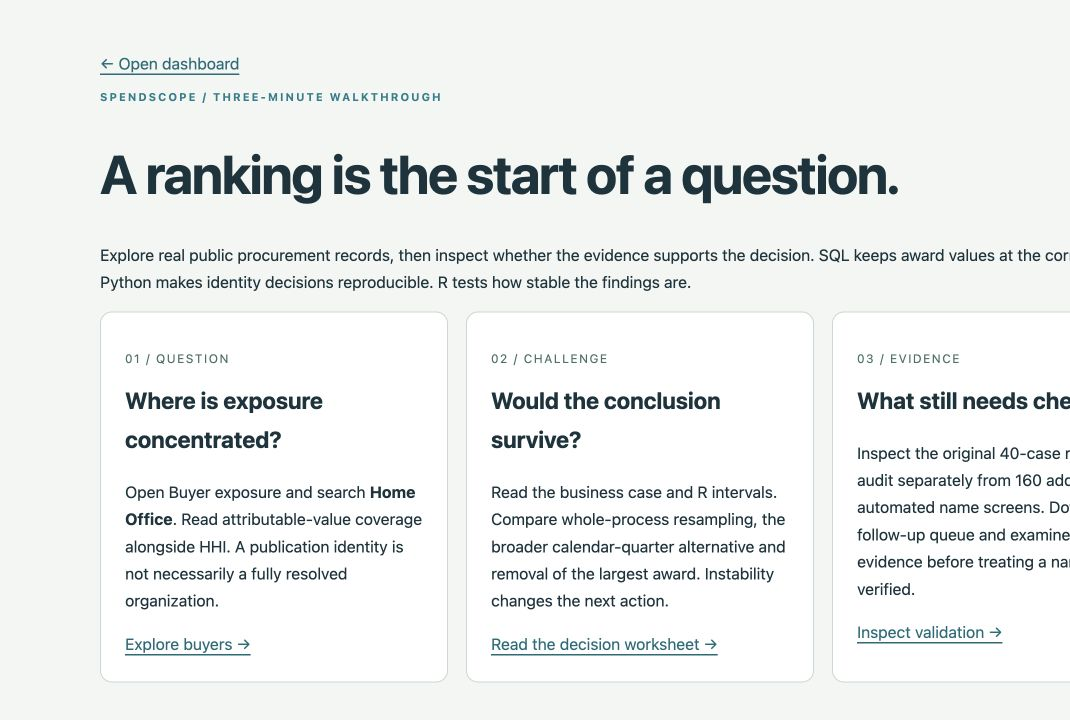
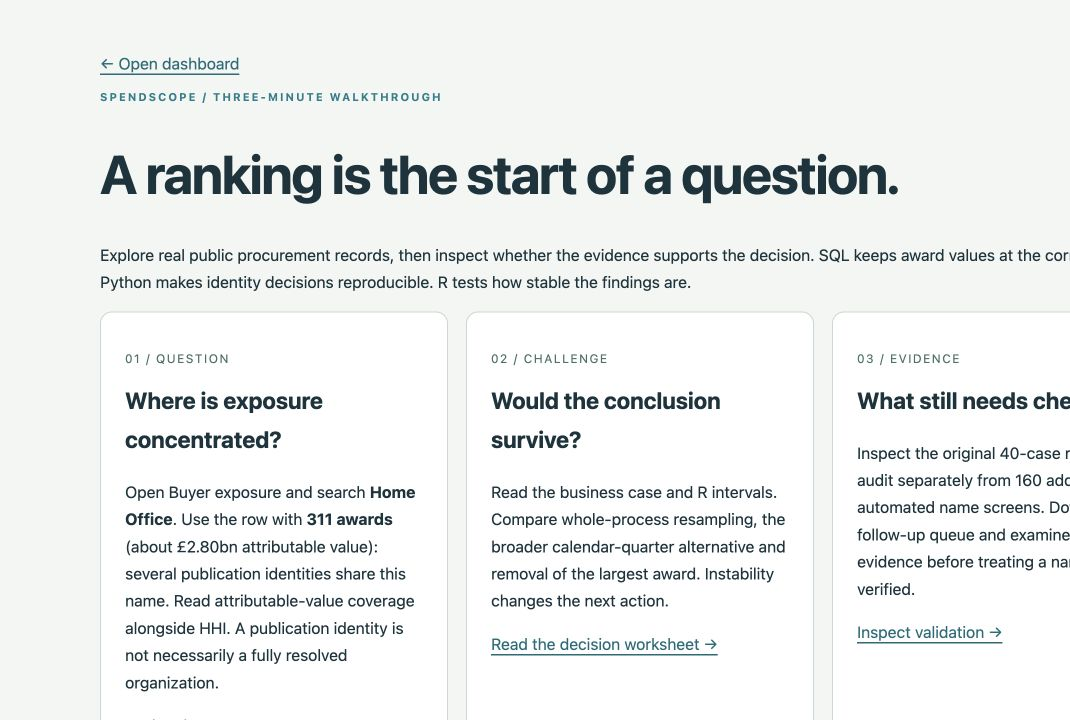
Tie decision evidence to the exact buyer publication identity

Changed region(s): [[0.0925, 0.7028, 0.4009, 0.9778]]

diff --git a/docs/case-studies.html b/docs/case-studies.html
@@ -1,2 +1,2 @@
-<!doctype html><html lang="en"><head><meta charset="utf-8"><meta name="viewport" content="width=device-width,initial-scale=1"><title>SpendScope | Business case studies</title><link rel="stylesheet" href="research.css"></head><body><main><a href="index.html">← Dashboard</a><p class="eyebrow">BUSINESS CASE STUDIES / EXECUTED RESULTS</p><h1>SpendScope: evidence before supplier prioritization</h1><h2>Decision</h2><p>Use the dashboard to prioritize source-record and identity review. Do not interpret award commitments as payments, rankings as verified supplier performance, or hypothetical sensitivity scenarios as savings.</p><h2>Case 1 — A source instruction had become a supplier</h2><p>The upgraded rules identify 193 placeholder links and 1,093 malformed registration links across the normalized source. Examples include attachment-list instructions and generic labels such as “Various.” They remain in headline award totals but cannot carry supplier shares.</p><p>Using the same pinned archives, combined identity/evidence improvements changed attributable value from £325.90bn (32.9% of eligible value) to £236.35bn (23.9%). The difference is a change in analytical attribution, not reduced procurement spend or measured savings. Exact reviewed approvals also restore selected legitimate names, so the difference must not be attributed to one exclusion rule alone.</p><p>The versioned evidence review contains 31 targeted registration/name cases: 11 approvals, 2 rejections and 18 unresolved cases. Five Companies House records anchor the accepted exact names. This is not a random test set or an independent accuracy audit.</p><h2>Random validation — a frozen registry sample</h2><p>A deterministic sample of 40 from 11,517 previously unreviewed GB-COH identities produced 36 compatible registry-name records, 2 name conflicts and 2 unobserved records. Confirmed agreement is 90.0%, with a 95% Wilson interval of 76.9%–96.0%. Missing-evidence bounds are 90.0%–95.0%. The sample was frozen before its registry observations; subsequent conflict holdbacks are documented remediation, not a claim of independently measured post-remediation accuracy.</p><p>This is registry-name consistency in a restricted registration-evidence frame, not precision/recall of all supplier matching. Name-only identities, source assignment errors despite a matching legal name, and independent professional validation remain outside this result.</p><h2>Case 2 — A framework ceiling is not a payment</h2><p>The largest recorded award is £150.00bn: EEM0056 Property Improvements and Decarbonisation Works Framework. The linked notice displays the same amount and 19 suppliers, and explains a potential framework covering multiple users, lots and years. Agreement confirms a source representation, not distinct expenditure or that the ceiling will be used. The award stays in headline totals once and is not attributed to each of its suppliers.</p><p><a href="https://www.contractsfinder.service.gov.uk/Notice/22498071-7872-45a0-ae26-4077553233f5">Original award notice ↗</a></p><p>Twenty large award records were selected for page review; 20 linked pages were observed and 11 records were held back from attribution for unresolved stage/context/cardinality issues or attachment-list placeholders. Original amounts are never silently rewritten. Live notice pages and pinned compiled snapshots can represent different points in a procurement&#x27;s history.</p><h2>Case 3 — Related awards change the stability assessment</h2><p>For the leading supported buyer identity by attributable value, Home Office, 311 awards belong to 266 procurement processes. R independently reproduces HHI 1,113. The process-clustered percentile interval is 622–3,313; the independent-award alternative is 626–2,521. These intervals are descriptive, with 300 draws under each sampling assumption.</p><p>Removing the largest award gives HHI 790; buyer-specific 99th-percentile capping gives 541. Registration evidence covers 0.0% of this buyer identity&#x27;s attributable value. Neither the ranking nor interval is a guarantee of operational supplier dependency. Review identity confidence and individual commitments before making a procurement decision.</p><h2>Decision worksheet — should this buyer enter a supplier-risk review?</h2><p>Question: does Home Office&#x27;s observed portfolio justify immediately changing supplier strategy? Recommendation: prioritize verification, not a supplier change. The process interval spans 622–3,313; the largest-award sensitivity changes the point estimate from 1,113 to 790. That instability and 0.0% registration-evidence coverage make an operational dependency claim premature.</p><p>Analyst handoff: download buyer metrics and buyer sensitivity; locate the buyer in the Source explorer; inspect its largest commitments and original notices. Ask the stakeholder for supplier legal IDs, framework/call-off relationships, actual payments, service criticality and substitution lead times. Reconcile these to the observed publication identity before escalating any supplier-risk recommendation.</p><p>Acceptance gate: do not recommend a supplier intervention until identity gaps and overlapping commitments are resolved, payment records reconcile to the intended period, and a procurement owner confirms service criticality. Record unresolved discrepancies. This is a proposed decision workflow, not a stakeholder-endorsed action or measured savings.</p><h2>Expanded evidence collection — names are a screening signal</h2><p>The frozen hash ordering now extends to 200 identities: the original 40-case audit plus 160 additional automated registry observations. The latter yield 134 current/former-name agreements, 21 cases requiring review and 5 unavailable pages. These are not additional human-reviewed accuracy labels. A versioned follow-up queue preserves nonmatches and unavailable evidence; no attribution rule changes automatically.</p><h2>Dependence beyond one process</h2><p>The source provides 249 related-process declarations but only 0 usable in-universe OCID links. No graph edges are invented from missing identifiers. R therefore also publishes buyer-clustered category medians and calendar-quarter buyer-HHI sensitivity, preserving dependence under broader alternative assumptions. These do not establish true framework/call-off relationships.</p><h2>Recommended next action</h2><p>Begin with source evidence and identity gaps, then request actual purchasing/payment records from a real stakeholder. Conduct an independent labeled supplier review before reporting population matching accuracy. Process clustering still misses unknown links across distinct OCIDs and missing reporting. No external stakeholder validation or measured organizational impact is claimed.</p><p>Evidence: reports/quality.json, buyer_evidence.csv, buyer_sensitivity.csv, comparison_thresholds.csv, identity_decisions.csv, notice_checks.json and data/sources.json. Baseline comparison: v0.1.0, commit ee9dfed.
-</p><p><a href="research.html">R research note ↗</a> · <a href="reports/notice_checks.json">Evidence register ↓</a></p></main></body></html>
+<!doctype html><html lang="en"><head><meta charset="utf-8"><meta name="viewport" content="width=device-width,initial-scale=1"><title>SpendScope | Business case studies</title><link rel="stylesheet" href="research.css"></head><body><main><a href="index.html">← Dashboard</a><p class="eyebrow">BUSINESS CASE STUDIES / EXECUTED RESULTS</p><h1>SpendScope: evidence before supplier prioritization</h1><h2>Decision</h2><p>Use the dashboard to prioritize source-record and identity review. Do not interpret award commitments as payments, rankings as verified supplier performance, or hypothetical sensitivity scenarios as savings.</p><h2>Case 1 — A source instruction had become a supplier</h2><p>The upgraded rules identify 193 placeholder links and 1,093 malformed registration links across the normalized source. Examples include attachment-list instructions and generic labels such as “Various.” They remain in headline award totals but cannot carry supplier shares.</p><p>Using the same pinned archives, combined identity/evidence improvements changed attributable value from £325.90bn (32.9% of eligible value) to £236.35bn (23.9%). The difference is a change in analytical attribution, not reduced procurement spend or measured savings. Exact reviewed approvals also restore selected legitimate names, so the difference must not be attributed to one exclusion rule alone.</p><p>The versioned evidence review contains 31 targeted registration/name cases: 11 approvals, 2 rejections and 18 unresolved cases. Five Companies House records anchor the accepted exact names. This is not a random test set or an independent accuracy audit.</p><h2>Random validation — a frozen registry sample</h2><p>A deterministic sample of 40 from 11,517 previously unreviewed GB-COH identities produced 36 compatible registry-name records, 2 name conflicts and 2 unobserved records. Confirmed agreement is 90.0%, with a 95% Wilson interval of 76.9%–96.0%. Missing-evidence bounds are 90.0%–95.0%. The sample was frozen before its registry observations; subsequent conflict holdbacks are documented remediation, not a claim of independently measured post-remediation accuracy.</p><p>This is registry-name consistency in a restricted registration-evidence frame, not precision/recall of all supplier matching. Name-only identities, source assignment errors despite a matching legal name, and independent professional validation remain outside this result.</p><h2>Case 2 — A framework ceiling is not a payment</h2><p>The largest recorded award is £150.00bn: EEM0056 Property Improvements and Decarbonisation Works Framework. The linked notice displays the same amount and 19 suppliers, and explains a potential framework covering multiple users, lots and years. Agreement confirms a source representation, not distinct expenditure or that the ceiling will be used. The award stays in headline totals once and is not attributed to each of its suppliers.</p><p><a href="https://www.contractsfinder.service.gov.uk/Notice/22498071-7872-45a0-ae26-4077553233f5">Original award notice ↗</a></p><p>Twenty large award records were selected for page review; 20 linked pages were observed and 11 records were held back from attribution for unresolved stage/context/cardinality issues or attachment-list placeholders. Original amounts are never silently rewritten. Live notice pages and pinned compiled snapshots can represent different points in a procurement&#x27;s history.</p><h2>Case 3 — Related awards change the stability assessment</h2><p>For the leading supported buyer identity by attributable value, Home Office, 311 awards belong to 266 procurement processes. R independently reproduces HHI 1,113. The process-clustered percentile interval is 622–3,313; the independent-award alternative is 626–2,521. These intervals are descriptive, with 300 draws under each sampling assumption.</p><p>Removing the largest award gives HHI 790; buyer-specific 99th-percentile capping gives 541. Registration evidence covers 0.0% of this buyer identity&#x27;s attributable value. Neither the ranking nor interval is a guarantee of operational supplier dependency. Review identity confidence and individual commitments before making a procurement decision.</p><h2>Decision worksheet — should this buyer enter a supplier-risk review?</h2><p>Question: does Home Office&#x27;s observed portfolio justify immediately changing supplier strategy? Recommendation: prioritize verification, not a supplier change. The process interval spans 622–3,313; the largest-award sensitivity changes the point estimate from 1,113 to 790. That instability and 0.0% registration-evidence coverage make an operational dependency claim premature.</p><p>Analyst handoff: download buyer metrics and buyer sensitivity. Match buyer_key b49f4c311ff916ace705f91d to the case&#x27;s 20-largest-attributable-commitments download; buyer names alone are not unique. This is a selected evidence queue, not the complete 311-award portfolio. Inspect its original notice links and identity basis. Ask the stakeholder for supplier legal IDs, framework/call-off relationships, actual payments, service criticality and substitution lead times. Reconcile these to the observed publication identity before escalating any supplier-risk recommendation.</p><p>Acceptance gate: do not recommend a supplier intervention until identity gaps and overlapping commitments are resolved, payment records reconcile to the intended period, and a procurement owner confirms service criticality. Record unresolved discrepancies. This is a proposed decision workflow, not a stakeholder-endorsed action or measured savings.</p><h2>Expanded evidence collection — names are a screening signal</h2><p>The frozen hash ordering now extends to 200 identities: the original 40-case audit plus 160 additional automated registry observations. The latter yield 134 current/former-name agreements, 21 cases requiring review and 5 unavailable pages. These are not additional human-reviewed accuracy labels. A versioned follow-up queue preserves nonmatches and unavailable evidence; no attribution rule changes automatically.</p><h2>Dependence beyond one process</h2><p>The source provides 249 related-process declarations but only 0 usable in-universe OCID links. No graph edges are invented from missing identifiers. R therefore also publishes buyer-clustered category medians and calendar-quarter buyer-HHI sensitivity, preserving dependence under broader alternative assumptions. These do not establish true framework/call-off relationships.</p><h2>Recommended next action</h2><p>Begin with source evidence and identity gaps, then request actual purchasing/payment records from a real stakeholder. Conduct an independent labeled supplier review before reporting population matching accuracy. Process clustering still misses unknown links across distinct OCIDs and missing reporting. No external stakeholder validation or measured organizational impact is claimed.</p><p>Evidence: reports/quality.json, buyer_evidence.csv, buyer_sensitivity.csv, comparison_thresholds.csv, identity_decisions.csv, notice_checks.json and data/sources.json. Baseline comparison: v0.1.0, commit ee9dfed.
+</p><p><a href="reports/decision_case_awards.csv">Case evidence: 20 largest attributable commitments ↓</a></p><p><a href="research.html">R research note ↗</a> · <a href="reports/notice_checks.json">Evidence register ↓</a></p></main></body></html>

diff --git a/docs/walkthrough.html b/docs/walkthrough.html
@@ -2,10 +2,11 @@
 <html lang="en">
 <head><meta charset="utf-8"><meta name="viewport" content="width=device-width,initial-scale=1"><meta name="description" content="A three-minute evidence-first walkthrough of SpendScope's SQL, Python and R procurement analysis."><title>SpendScope | Start here</title><link rel="stylesheet" href="research.css"><style>.steps{display:grid;grid-template-columns:repeat(3,minmax(0,1fr));gap:18px}.step{background:white;border:1px solid #c9d7d2;padding:24px;border-radius:12px}.step h2{margin-top:0;font-size:23px}.tag{font-size:12px;letter-spacing:1.5px;color:#467365;text-transform:uppercase}.flow{display:flex;flex-wrap:wrap;gap:12px;padding:0;list-style:none}.flow li{background:#17343d;color:#fff;border-radius:8px;padding:14px;flex:1;min-width:130px}.flow small{display:block;color:#d1e8df}a:focus-visible,summary:focus-visible{outline:3px solid #b44e26;outline-offset:4px}@media(max-width:750px){.steps{grid-template-columns:1fr}}</style></head>
 <body><main><a href="index.html">← Open dashboard</a><p class="eyebrow">SPENDSCOPE / THREE-MINUTE WALKTHROUGH</p><h1>A ranking is the start of a question.</h1><p>Explore real public procurement records, then inspect whether the evidence supports the decision. SQL keeps award values at the correct grain. Python makes identity decisions reproducible. R tests how stable the findings are.</p>
-<div class="steps"><section class="step"><p class="tag">01 / Question</p><h2>Where is exposure concentrated?</h2><p>Open Buyer exposure and search <strong>Home Office</strong>. Read attributable-value coverage alongside HHI. A publication identity is not necessarily a fully resolved organization.</p><a href="index.html#buyers">Explore buyers →</a></section>
+<div class="steps"><section class="step"><p class="tag">01 / Question</p><h2>Where is exposure concentrated?</h2><p>Open Buyer exposure and search <strong>Home Office</strong>. Use the row with <strong>311 awards</strong> (about £2.80bn attributable value): several publication identities share this name. Read attributable-value coverage alongside HHI. A publication identity is not necessarily a fully resolved organization.</p><a href="index.html#buyers">Explore buyers →</a></section>
 <section class="step"><p class="tag">02 / Challenge</p><h2>Would the conclusion survive?</h2><p>Read the business case and R intervals. Compare whole-process resampling, the broader calendar-quarter alternative and removal of the largest award. Instability changes the next action.</p><a href="case-studies.html">Read the decision worksheet →</a></section>
 <section class="step"><p class="tag">03 / Evidence</p><h2>What still needs checking?</h2><p>Inspect the original 40-case registry audit separately from 160 additional automated name screens. Download the follow-up queue and examine original evidence before treating a name as verified.</p><a href="index.html#validation">Inspect validation →</a></section></div>
 <h2>How the system works</h2><ol class="flow" aria-label="Data pipeline"><li>Public archives<small>Pinned originals + SHA-256</small></li><li>Python normalization<small>Award grain + identity evidence</small></li><li>DuckDB / SQL<small>Conservation + coverage gates</small></li><li>R analysis<small>Dependence + sensitivity</small></li><li>Verified publication<small>Tests → exact commit → Pages</small></li></ol>
+<p><a href="reports/decision_case_awards.csv">Download the case’s 20 largest attributable commitments →</a> · Exact publication identity; original notice links; not payments.</p>
 <h2>The decision this supports</h2><p><strong>Prioritize investigation before changing suppliers.</strong> The Home Office case demonstrates why a concentration point estimate alone is insufficient. A procurement owner still needs legal identities, call-off relationships, actual payments, service criticality and substitution lead times. No stakeholder endorsement or realized savings is claimed.</p>
 <h2>Inspect the engineering</h2><p><a href="https://github.com/MaxListon/spendscope-procurement-analytics">Source repository</a> · <a href="https://github.com/MaxListon/spendscope-procurement-analytics/actions/workflows/checks.yml">Latest build checks</a> · <a href="reports/build_manifest.json">Artifact fingerprints</a> · <a href="research.html">Executed R analysis</a></p>
 <h2>Data freshness, stated precisely</h2><p>This is historical analysis of selected 2022–2024 snapshots, retrieved <strong>12 November 2026</strong>. It is not a live feed. Automated registry screening has its own observation timestamps in the evidence download. A successful rebuild verifies those pinned sources; it does not mean newer procurement data was acquired.</p>

diff --git a/src/spendscope/web/walkthrough.html b/src/spendscope/web/walkthrough.html
@@ -2,10 +2,11 @@
 <html lang="en">
 <head><meta charset="utf-8"><meta name="viewport" content="width=device-width,initial-scale=1"><meta name="description" content="A three-minute evidence-first walkthrough of SpendScope's SQL, Python and R procurement analysis."><title>SpendScope | Start here</title><link rel="stylesheet" href="research.css"><style>.steps{display:grid;grid-template-columns:repeat(3,minmax(0,1fr));gap:18px}.step{background:white;border:1px solid #c9d7d2;padding:24px;border-radius:12px}.step h2{margin-top:0;font-size:23px}.tag{font-size:12px;letter-spacing:1.5px;color:#467365;text-transform:uppercase}.flow{display:flex;flex-wrap:wrap;gap:12px;padding:0;list-style:none}.flow li{background:#17343d;color:#fff;border-radius:8px;padding:14px;flex:1;min-width:130px}.flow small{display:block;color:#d1e8df}a:focus-visible,summary:focus-visible{outline:3px solid #b44e26;outline-offset:4px}@media(max-width:750px){.steps{grid-template-columns:1fr}}</style></head>
 <body><main><a href="index.html">← Open dashboard</a><p class="eyebrow">SPENDSCOPE / THREE-MINUTE WALKTHROUGH</p><h1>A ranking is the start of a question.</h1><p>Explore real public procurement records, then inspect whether the evidence supports the decision. SQL keeps award values at the correct grain. Python makes identity decisions reproducible. R tests how stable the findings are.</p>
-<div class="steps"><section class="step"><p class="tag">01 / Question</p><h2>Where is exposure concentrated?</h2><p>Open Buyer exposure and search <strong>Home Office</strong>. Read attributable-value coverage alongside HHI. A publication identity is not necessarily a fully resolved organization.</p><a href="index.html#buyers">Explore buyers →</a></section>
+<div class="steps"><section class="step"><p class="tag">01 / Question</p><h2>Where is exposure concentrated?</h2><p>Open Buyer exposure and search <strong>Home Office</strong>. Use the row with <strong>311 awards</strong> (about £2.80bn attributable value): several publication identities share this name. Read attributable-value coverage alongside HHI. A publication identity is not necessarily a fully resolved organization.</p><a href="index.html#buyers">Explore buyers →</a></section>
 <section class="step"><p class="tag">02 / Challenge</p><h2>Would the conclusion survive?</h2><p>Read the business case and R intervals. Compare whole-process resampling, the broader calendar-quarter alternative and removal of the largest award. Instability changes the next action.</p><a href="case-studies.html">Read the decision worksheet →</a></section>
 <section class="step"><p class="tag">03 / Evidence</p><h2>What still needs checking?</h2><p>Inspect the original 40-case registry audit separately from 160 additional automated name screens. Download the follow-up queue and examine original evidence before treating a name as verified.</p><a href="index.html#validation">Inspect validation →</a></section></div>
 <h2>How the system works</h2><ol class="flow" aria-label="Data pipeline"><li>Public archives<small>Pinned originals + SHA-256</small></li><li>Python normalization<small>Award grain + identity evidence</small></li><li>DuckDB / SQL<small>Conservation + coverage gates</small></li><li>R analysis<small>Dependence + sensitivity</small></li><li>Verified publication<small>Tests → exact commit → Pages</small></li></ol>
+<p><a href="reports/decision_case_awards.csv">Download the case’s 20 largest attributable commitments →</a> · Exact publication identity; original notice links; not payments.</p>
 <h2>The decision this supports</h2><p><strong>Prioritize investigation before changing suppliers.</strong> The Home Office case demonstrates why a concentration point estimate alone is insufficient. A procurement owner still needs legal identities, call-off relationships, actual payments, service criticality and substitution lead times. No stakeholder endorsement or realized savings is claimed.</p>
 <h2>Inspect the engineering</h2><p><a href="https://github.com/MaxListon/spendscope-procurement-analytics">Source repository</a> · <a href="https://github.com/MaxListon/spendscope-procurement-analytics/actions/workflows/checks.yml">Latest build checks</a> · <a href="reports/build_manifest.json">Artifact fingerprints</a> · <a href="research.html">Executed R analysis</a></p>
 <h2>Data freshness, stated precisely</h2><p>This is historical analysis of selected 2022–2024 snapshots, retrieved <strong>12 November 2026</strong>. It is not a live feed. Automated registry screening has its own observation timestamps in the evidence download. A successful rebuild verifies those pinned sources; it does not mean newer procurement data was acquired.</p>

diff --git a/src/spendscope/reporting.py b/src/spendscope/reporting.py
@@ -58,7 +58,7 @@ Removing the largest award gives HHI {buyer["hhi_without_largest"]:,.0f}; buyer-
 
 Question: does {buyer["buyer_name"]}'s observed portfolio justify immediately changing supplier strategy? Recommendation: prioritize verification, not a supplier change. The process interval spans {buyer["hhi_low"]:,.0f}–{buyer["hhi_high"]:,.0f}; the largest-award sensitivity changes the point estimate from {buyer["hhi"]:,.0f} to {buyer["hhi_without_largest"]:,.0f}. That instability and {buyer["registered_value_share"]:.1%} registration-evidence coverage make an operational dependency claim premature.
 
-Analyst handoff: download buyer metrics and buyer sensitivity; locate the buyer in the Source explorer; inspect its largest commitments and original notices. Ask the stakeholder for supplier legal IDs, framework/call-off relationships, actual payments, service criticality and substitution lead times. Reconcile these to the observed publication identity before escalating any supplier-risk recommendation.
+Analyst handoff: download buyer metrics and buyer sensitivity. Match buyer_key {buyer["buyer_key"]} to the case's 20-largest-attributable-commitments download; buyer names alone are not unique. This is a selected evidence queue, not the complete {buyer["awards"]}-award portfolio. Inspect its original notice links and identity basis. Ask the stakeholder for supplier legal IDs, framework/call-off relationships, actual payments, service criticality and substitution lead times. Reconcile these to the observed publication identity before escalating any supplier-risk recommendation.
 
 Acceptance gate: do not recommend a supplier intervention until identity gaps and overlapping commitments are resolved, payment records reconcile to the intended period, and a procurement owner confirms service criticality. Record unresolved discrepancies. This is a proposed decision workflow, not a stakeholder-endorsed action or measured savings.
 
@@ -93,6 +93,6 @@ Evidence: reports/quality.json, buyer_evidence.csv, buyer_sensitivity.csv, compa
     html = (
         '<!doctype html><html lang="en"><head><meta charset="utf-8"><meta name="viewport" content="width=device-width,initial-scale=1"><title>SpendScope | Business case studies</title><link rel="stylesheet" href="research.css"></head><body><main><a href="index.html">← Dashboard</a><p class="eyebrow">BUSINESS CASE STUDIES / EXECUTED RESULTS</p>'
         + "".join(blocks)
-        + '<p><a href="research.html">R research note ↗</a> · <a href="reports/notice_checks.json">Evidence register ↓</a></p></main></body></html>'
+        + '<p><a href="reports/decision_case_awards.csv">Case evidence: 20 largest attributable commitments ↓</a></p><p><a href="research.html">R research note ↗</a> · <a href="reports/notice_checks.json">Evidence register ↓</a></p></main></body></html>'
     )
     return md, html

diff --git a/tests/test_decision_case.py b/tests/test_decision_case.py
@@ -1,0 +1,42 @@
+from pathlib import Path
+import duckdb
+
+
+def test_case_evidence_uses_exact_key_not_shared_buyer_name():
+    con = duckdb.connect()
+    con.execute(
+        "CREATE TABLE attributed (buyer_key VARCHAR,buyer_name VARCHAR,award_key VARCHAR,ocid VARCHAR,title VARCHAR,amount DOUBLE,supplier_key VARCHAR,supplier_name VARCHAR,identity_basis VARCHAR,source_url VARCHAR)"
+    )
+    con.executemany(
+        "INSERT INTO attributed VALUES (?,?,?,?,?,?,?,?,?,?)",
+        [
+            (
+                key,
+                "Home Office",
+                award,
+                "process-" + award,
+                "Commitment",
+                amount,
+                "supplier",
+                "Example Limited",
+                "name-only",
+                "https://example.test/" + award,
+            )
+            for key, award, amount in [
+                ("case", "a", 100),
+                ("case", "b", 100),
+                ("other", "c", 999),
+            ]
+        ],
+    )
+    query = (Path(__file__).parents[1] / "sql/decision_case.sql").read_text()
+    rows = con.execute(query, ["case"]).df()
+    assert rows.award_key.tolist() == ["a", "b"]
+    assert rows.amount.sum() == 200
+    assert set(rows.buyer_key) == {"case"}
+    assert rows.source_url.tolist() == [
+        "https://example.test/a",
+        "https://example.test/b",
+    ]
+    assert con.execute(query, ["case' OR 1=1 --"]).df().empty
+    con.close()

diff --git a/src/spendscope/pipeline.py b/src/spendscope/pipeline.py
@@ -324,6 +324,13 @@ def build(root, offline=False):
             if not artifact.is_file() or artifact.stat().st_size == 0:
                 raise ValueError(f"R output missing: {required}")
         r = json.loads((stage / "reports/r_analysis.json").read_text())
+        with duckdb.connect(
+            str(stage / "warehouse.duckdb"), read_only=True
+        ) as case_con:
+            case_con.execute(
+                (root / "sql/decision_case.sql").read_text(),
+                [r["buyers"][0]["buyer_key"]],
+            ).df().to_csv(stage / "reports/decision_case_awards.csv", index=False)
         payload = dict(
             annual=tables["annual"],
             categories=tables["categories"],

diff --git a/VERIFICATION.md b/VERIFICATION.md
@@ -6,10 +6,11 @@
 - Preserved the original frozen 40-case audit and extended its hash ordering to 200 identities. Observed 160 additional official registry pages: 134 current/former-name agreements, 21 follow-up cases, five unavailable pages. These automated outcomes are not human-reviewed accuracy labels. No attribution changed automatically.
 - Validated the expanded frame, order, supplier names, evidence URLs, timestamps, classifications and observation fingerprints. Tampering and missing observations fail closed.
 - Added source-refresh review with explicit exit statuses, source-change flags, coverage shifts, support transitions and HHI changes. The actual comparison with v0.3 reports no material metric changes; no newer procurement snapshot is claimed.
-- 92 Python tests passed, including invalid refresh candidates, sample tampering, grain conservation, staged failure recovery and artifact fingerprints.
+- 93 Python tests passed, including invalid refresh candidates, sample tampering, grain conservation, staged failure recovery and artifact fingerprints.
 - R regression checks passed. Full-source analysis still executes process, buyer and quarter sensitivity; this upgrade does not replace R with name screening.
-- Verified 31 analysis inputs and 57 generated outputs against their fingerprints.
+- Verified 32 analysis inputs and 59 generated outputs against their fingerprints.
 - Browser-checked the new walkthrough and evidence view at 375px: no document overflow; all 26 follow-up rows render; no browser error logs. Desktop walkthrough also has no document overflow. These are developer checks, not completed participant testing or a full accessibility audit.
+- Added an exact-buyer-key SQL case export of 20 attributable commitments; a homonymous-buyer regression case prevents mixing publication identities. The tour identifies the specific 311-award portfolio.
 - Added a generated decision worksheet, architecture tour, validation protocol and task-based usability packet. Feedback template remains empty.
 
 ## Publication and review boundaries

diff --git a/EXECUTIVE_MEMO.md b/EXECUTIVE_MEMO.md
@@ -36,7 +36,7 @@ Removing the largest award gives HHI 790; buyer-specific 99th-percentile capping
 
 Question: does Home Office's observed portfolio justify immediately changing supplier strategy? Recommendation: prioritize verification, not a supplier change. The process interval spans 622–3,313; the largest-award sensitivity changes the point estimate from 1,113 to 790. That instability and 0.0% registration-evidence coverage make an operational dependency claim premature.
 
-Analyst handoff: download buyer metrics and buyer sensitivity; locate the buyer in the Source explorer; inspect its largest commitments and original notices. Ask the stakeholder for supplier legal IDs, framework/call-off relationships, actual payments, service criticality and substitution lead times. Reconcile these to the observed publication identity before escalating any supplier-risk recommendation.
+Analyst handoff: download buyer metrics and buyer sensitivity. Match buyer_key b49f4c311ff916ace705f91d to the case's 20-largest-attributable-commitments download; buyer names alone are not unique. This is a selected evidence queue, not the complete 311-award portfolio. Inspect its original notice links and identity basis. Ask the stakeholder for supplier legal IDs, framework/call-off relationships, actual payments, service criticality and substitution lead times. Reconcile these to the observed publication identity before escalating any supplier-risk recommendation.
 
 Acceptance gate: do not recommend a supplier intervention until identity gaps and overlapping commitments are resolved, payment records reconcile to the intended period, and a procurement owner confirms service criticality. Record unresolved discrepancies. This is a proposed decision workflow, not a stakeholder-endorsed action or measured savings.
 

diff --git a/CHANGELOG.md b/CHANGELOG.md
@@ -2,6 +2,7 @@
 
 - Extend the original frozen sample to 200 identities, preserving the original 40-case audit. Record 160 additional automated official registry observations with extraction checks, timestamps, response fingerprints and a follow-up queue. Do not claim additional human-reviewed labels or change attribution automatically.
 - Add conservative source-refresh change review with explicit review-required exit status, operational thresholds, support transitions and largest HHI deltas. Strict same-source reproducibility checks remain unchanged.
+- Add a parameterized SQL case-evidence export keyed to the exact buyer publication identity, avoiding ambiguous homonymous buyer names.
 - Add a three-minute dashboard tour, pipeline architecture, generated decision worksheet, expanded validation protocol and task-based usability packet. No outside feedback or newer procurement snapshot is claimed.
 
 # Changelog

diff --git a/USABILITY_REVIEW.md b/USABILITY_REVIEW.md
@@ -6,7 +6,7 @@ Recruit 3–5 people, preferably including a procurement analyst and someone unf
 
 | Task | Observable completion | Target |
 |---|---|---|
-| Find Home Office in Buyer exposure | Correct identity and eligible/attributable coverage located | Within 90 seconds |
+| Find Home Office in Buyer exposure | 311-award publication identity and eligible/attributable coverage located | Within 90 seconds |
 | Explain what recorded award value means | Does not call it payments or realized revenue | Without prompting |
 | Challenge the concentration conclusion | Finds process interval and largest-award sensitivity | Within 2 minutes |
 | Inspect validation evidence | Separates original audit from automated name screening | Correct denominator |
